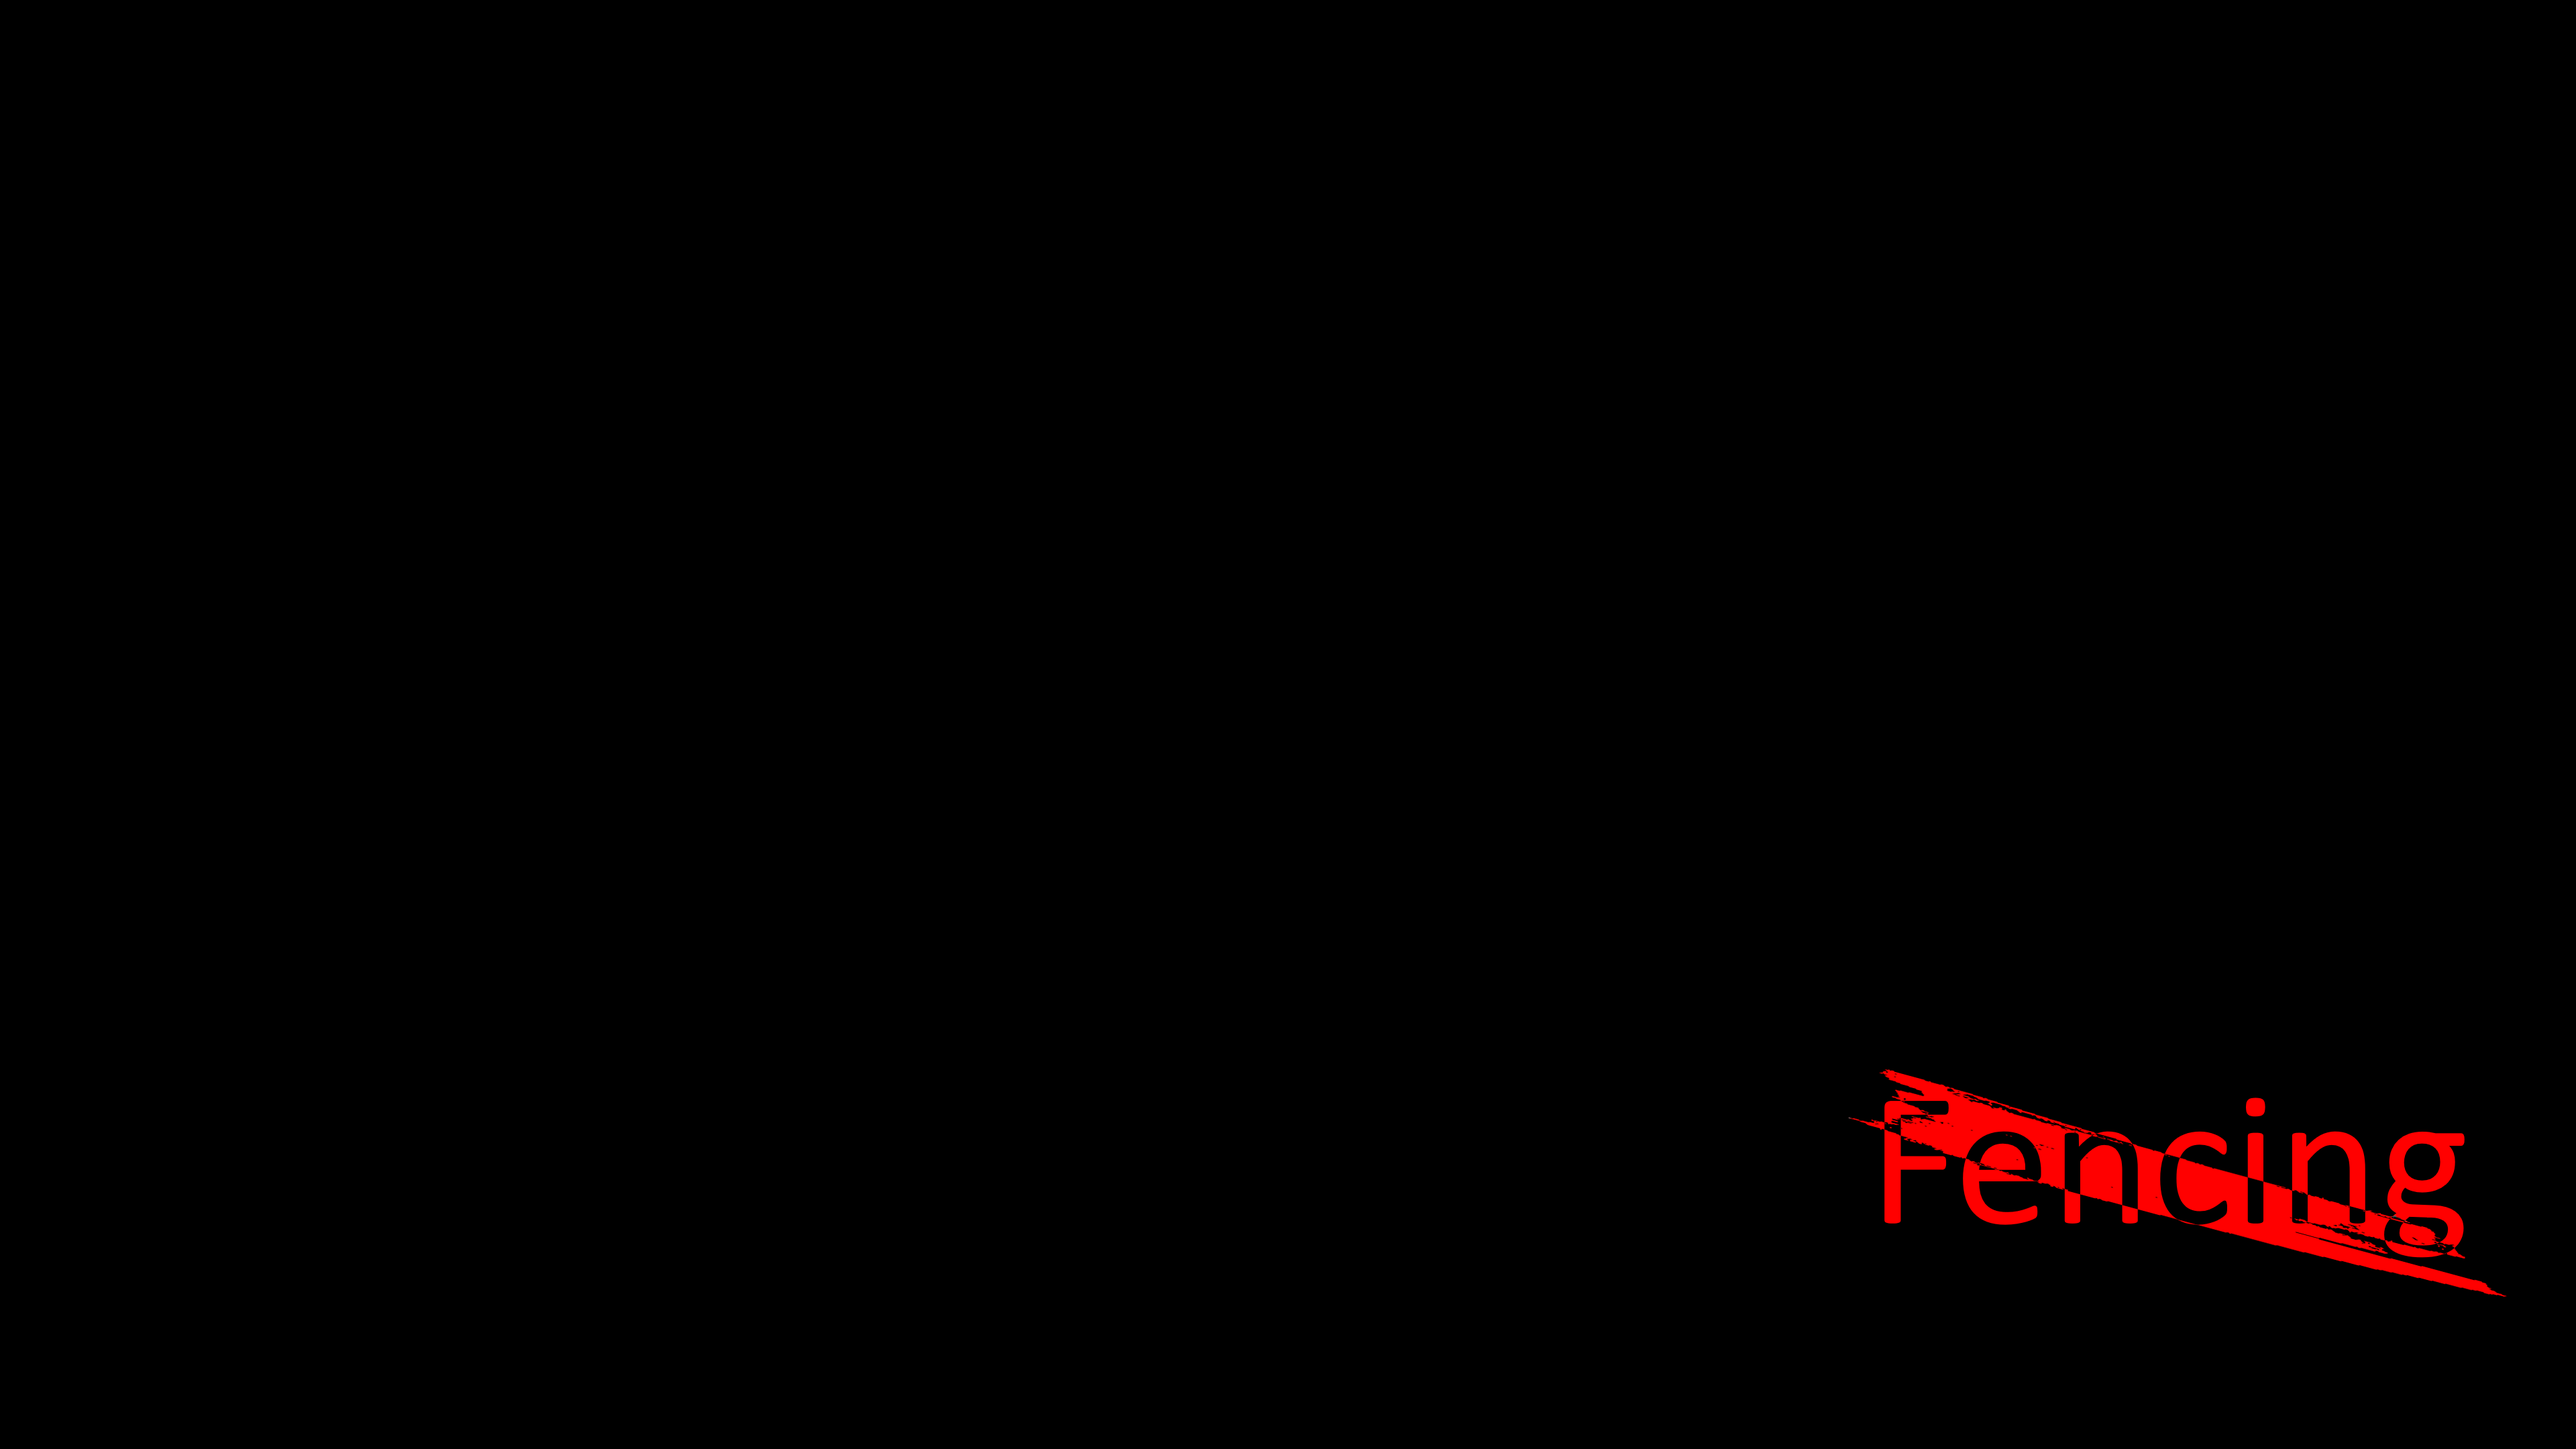
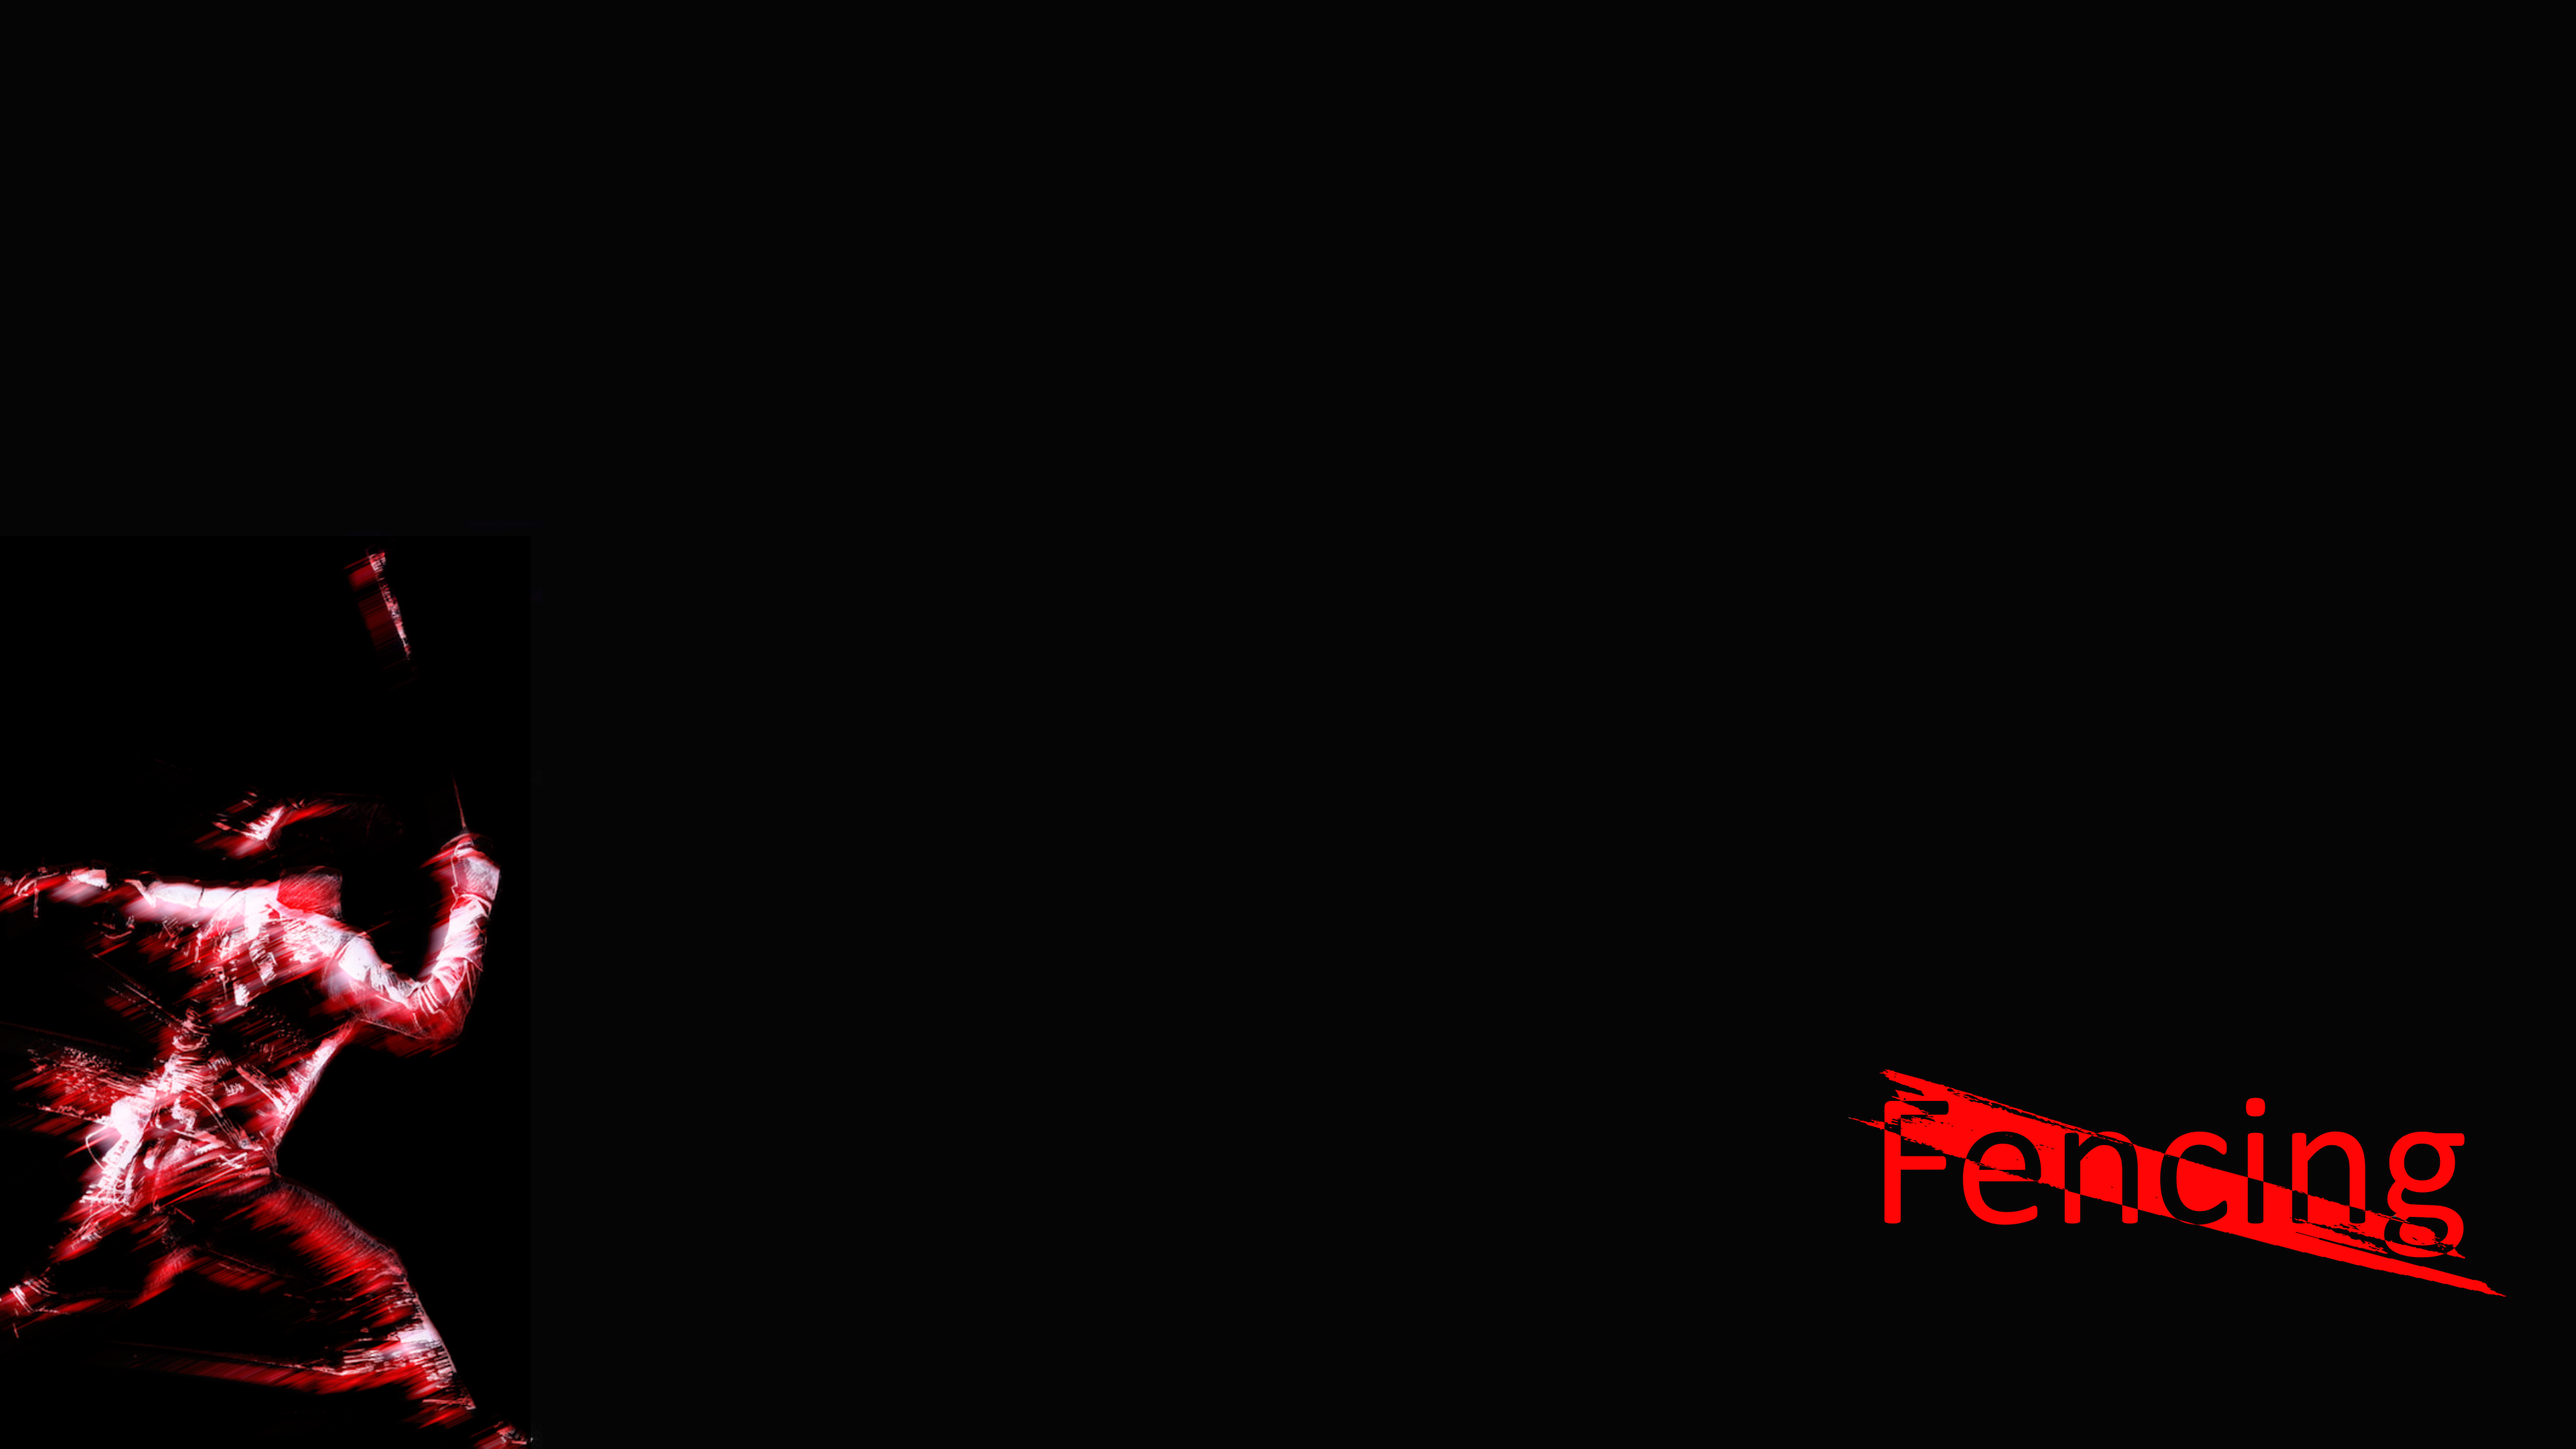
Add a few more options for background image

Changed region(s): [[0.0, 0.5273, 0.2188, 1.0], [0.125, 0.3722, 0.1562, 0.4653]]

diff --git a/src/app/components/complex/frameparts/CenterPanel.java b/src/app/components/complex/frameparts/CenterPanel.java
@@ -1,7 +1,5 @@
 package app.components.complex.frameparts;
 
-import java.awt.*;
-
 import javax.swing.JComponent;
 
 import app.components.labels.XLabel;
@@ -18,7 +16,7 @@ public final class CenterPanel extends AbstractCenterPanel {
 
         // Background label
         final XLabel backgroundLabel = new XLabel(1, 1, this.getWidth() - 1, this.getHeight() - 1,
-            Util.loadIcon(AssetsData.BACKGROUNDS.concat("mainBackground2"), this.getWidth(), this.getHeight()), this.frame,
+            Util.loadIcon(AssetsData.BACKGROUNDS.concat("mainBackground3"), this.getWidth(), this.getHeight()), this.frame,
             BasicAppearance.OPAQUE);
 
         this.addComponent(backgroundLabel, PositionConstants.BACKGROUND_POS);
